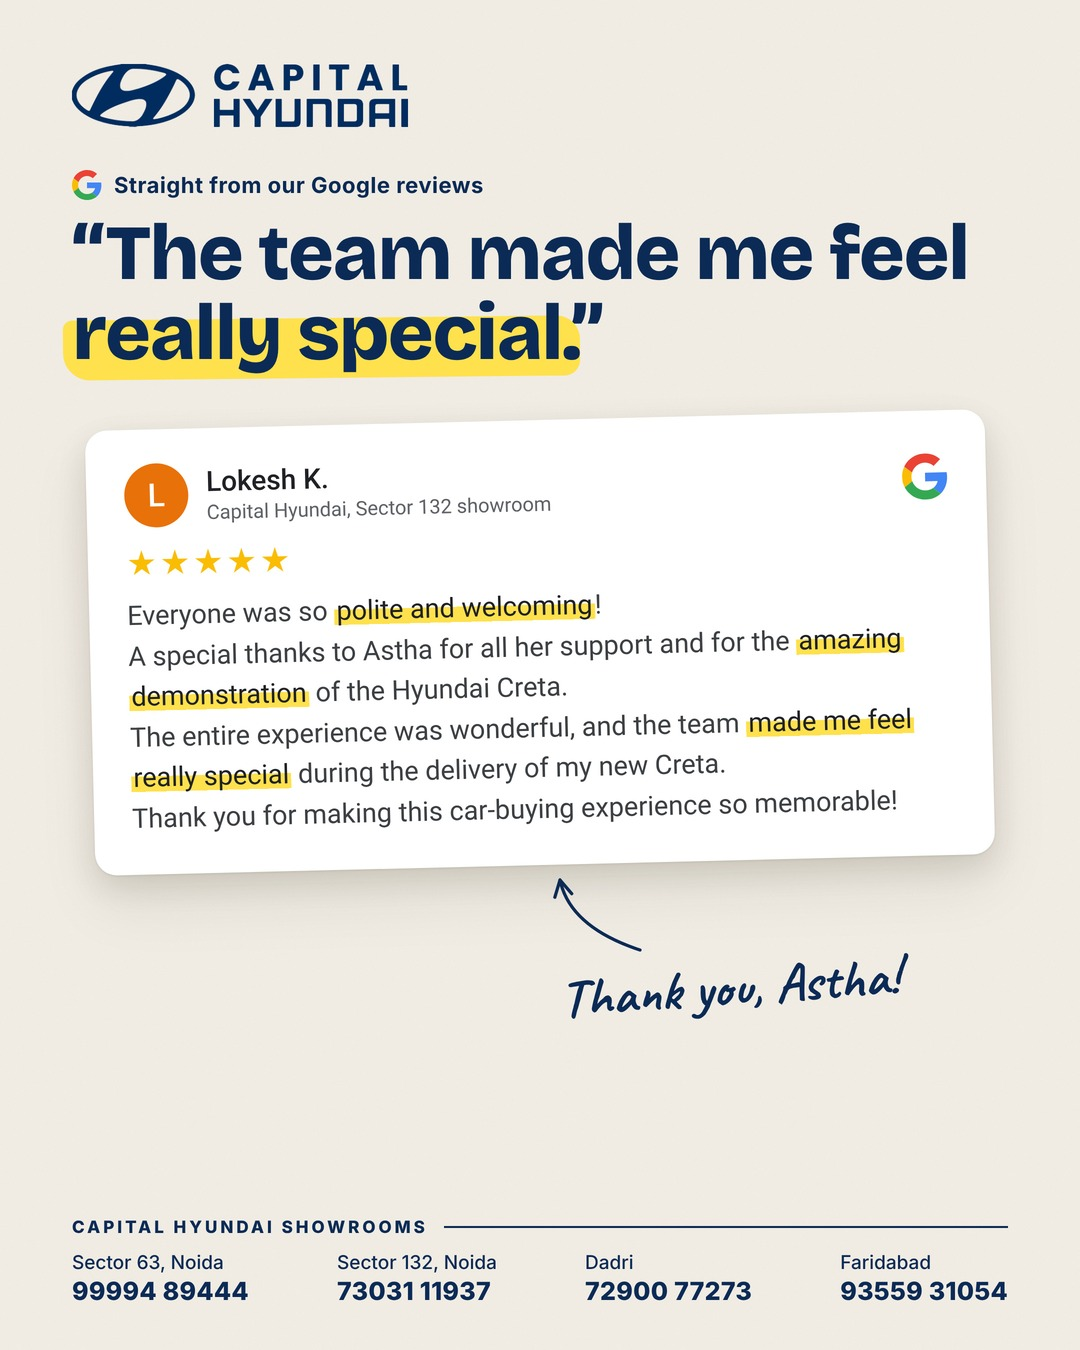
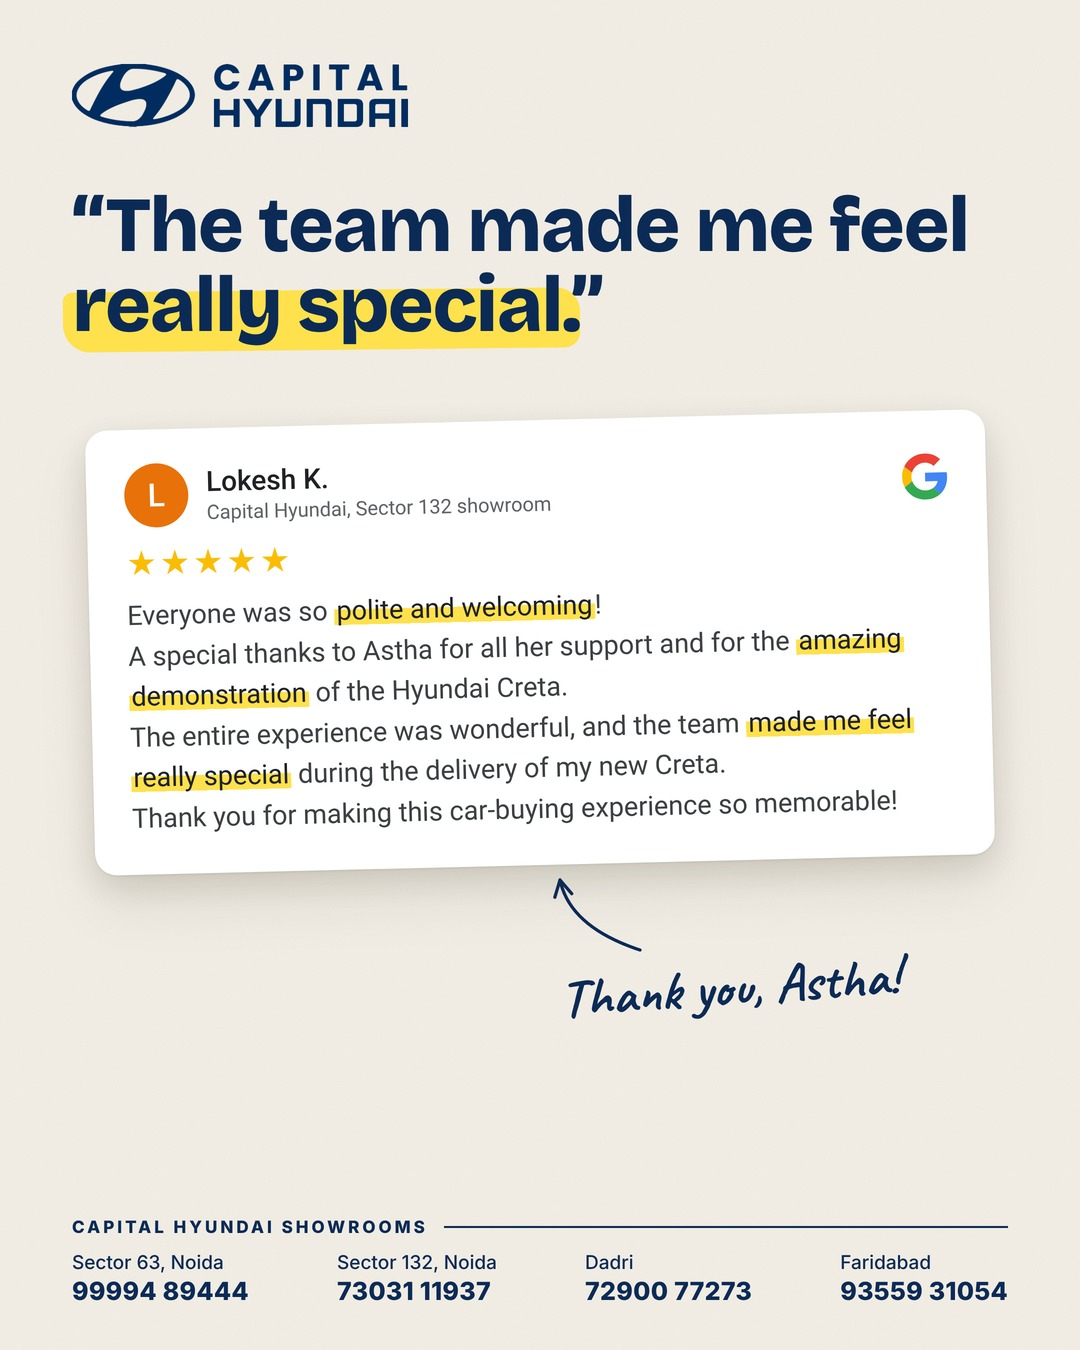
Capital v2: drop review kicker line and car-post texture (same plain paper on all)
Claude-Session: https://claude.ai/code/session_01M3cxh6DXP8nRoWZuXRG63R

Changed region(s): [[0.0611, 0.1244, 0.9167, 0.28], [0.8861, 0.1244, 0.9167, 0.1556]]

diff --git a/statics/review_card/ch2.html b/statics/review_card/ch2.html
@@ -97,7 +97,7 @@ function render(c){
  document.body.setAttribute('style',Object.entries(c.vars||{}).map(([k,v])=>`--${k}:${v}`).join(';'));
  let h=`<header><img src="${c.logo}" style="height:${c.logoH}px"></header>`;
  if(c.kind==='review'){
-  h+=`<div class="kick"><span style="width:30px;height:30px;display:inline-block">${G}</span>${c.kicker}</div><h1>${c.headline}</h1>
+  h+=`${c.kicker?`<div class="kick"><span style="width:30px;height:30px;display:inline-block">${G}</span>${c.kicker}</div>`:''}<h1>${c.headline}</h1>
   <div class="card"><div class="top"><div class="av" style="background:${c.avc}">${c.name[0]}</div><div class="who"><b>${c.name}</b><span>${c.place}</span></div><div class="g">${G}</div></div>
   <div class="stars"><i>★★★★★</i>${c.when||''}</div><div class="rtext">${c.text}</div></div>`;
  } else if(c.kind==='emiday'){

diff --git a/CLAUDE.md b/CLAUDE.md
@@ -134,7 +134,7 @@ This repo backs the posting of edited client reels to Instagram and Facebook. Re
   and no all-over blue gradient (the user found it looked very bad). Template `statics/review_card/hyundai.html`.
 - Logo colours (user, 24 Nov 2026): Hyundai dealer logos only in black, white or Hyundai blue, never recoloured to match
   a design (text colours can change). On light or sky backgrounds use black or blue.
-- **Capital Hyundai statics, v2 house style (client feedback via the user, 25 Nov 2026: "too AI").** Flat paper, navy, a yellow marker highlight, handwritten notes; no glows, haze or glass. Google review posts look like a Google review (G logo, stars, the customer's exact words with key phrases highlighted). EMI posts lead with the per-day cost (monthly EMI × 12 ÷ 365, rounded up, assumptions in the fine print). Template `statics/review_card/ch2.html` (see the README there).
+- **Capital Hyundai statics, v2 house style (client feedback via the user, 25 Nov 2026: "too AI").** Flat paper, navy, a yellow marker highlight, handwritten notes; no glows, haze or glass. Google review posts look like a Google review (G logo, stars, the customer's exact words with key phrases highlighted), with no "Straight from our Google reviews" line. Logo 63 px. Same plain paper on every post (no texture). EMI headline: "Own a Creta from Capital Hyundai for", Capital Hyundai larger. EMI posts lead with the per-day cost (monthly EMI × 12 ÷ 365, rounded up, assumptions in the fine print). Template `statics/review_card/ch2.html` (see the README there).
 - Capital Hyundai Dadri showroom number is 72900 77273 everywhere (user, 9 Nov 2026; matches the reel end card).
 - Boosting: rules and ad accounts are in `config/boost.json` (Instagram only, Advantage+ audience, all of India, goal engagement (user, 15 Nov 2026: "engagement for all boosts from now"), Rs 100/day for
   65 hours, Rs 271 per reel; user, 13 Nov 2026, was 2 days). Capital Hyundai and M R Hyundai always use their own ad account; Car & Bike always uses the Dee Emm Hyundai

diff --git a/statics/review_card/README.md b/statics/review_card/README.md
@@ -126,8 +126,8 @@ Fonts: `npm install @fontsource/bricolage-grotesque @fontsource/inter @fontsourc
 - `spec`: the model name set huge behind the car, the car (hyundai.com/in 360-viewer studio PNG with its own shadow)
   over its lower part, two handwritten callouts with arrows to real parts (headlamps, alloys), headline and chips.
 
-User feedback, 25 Nov 2026 (second round): logo 10% smaller (63 px, was 70); EMI headline says "Own a Creta from
-**Capital Hyundai** for" with "Capital Hyundai" set 22% larger; the plain paper behind EMI and model posts gets a
-subtle Hyundai-style parametric jewel texture (`pattern: true`: a diamond grid, each diamond split into four navy
-triangles of random 1.5-9% opacity with white hairlines, faded by a radial mask from the top right). Review posts
-stay on plain paper (the user: "the review creatives are fine").
+User feedback, 25 Nov 2026 (second and third rounds): logo 10% smaller (63 px, was 70); EMI headline says "Own a
+Creta from **Capital Hyundai** for" with "Capital Hyundai" set 22% larger. Review posts carry no "Straight from our
+Google reviews" line (the user: don't write it; the card's G logo is enough), so `kicker` is empty. A Hyundai-style
+parametric jewel texture (`pattern: true`) was tried behind the car posts and taken off again so every post, reviews
+included, sits on the same plain paper; the option stays in the template, off by default.
